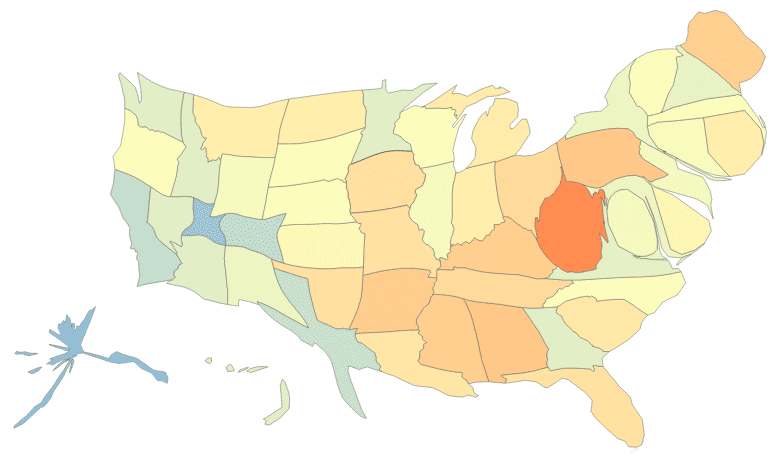
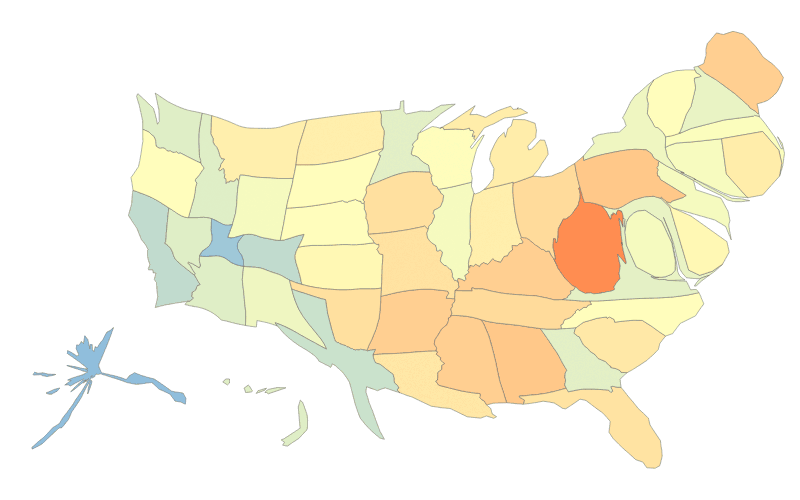
better placeholder, styling

Changed region(s): [[0.1231, 0.0, 0.9846, 0.9739], [0.0308, 0.6391, 0.3692, 0.913], [0.0, 0.913, 0.0308, 0.9435]]

diff --git a/index.html b/index.html
@@ -49,15 +49,16 @@
         height: 500px;
         text-align: center;
         position: relative;
+        margin: 20px 0;
       }
 
       #map {
+        display: block;
         position: absolute;
         background: #fff;
-        display: block;
         width: 100%;
         height: 100%;
-        margin: 20px 0;
+        margin: 0;
       }
 
       path.state {
@@ -81,8 +82,8 @@
         position: absolute;
         z-index: -1;
         display: block;
-        left: 18px;
-        top: 41px;
+        left: 0;
+        top: 0;
       }
 
     </style>
@@ -128,6 +129,10 @@
       <a href="https://github.com/shawnbot/d3-cartogram/"><img style="position: absolute; top: 0; right: 0; border: 0;" src="https://s3.amazonaws.com/github/ribbons/forkme_right_gray_6d6d6d.png" alt="Fork me on GitHub"></a>
     </div>
     <script>
+
+      if (!document.createElementNS) {
+        document.getElementsByTagName("form")[0].style.display = "none";
+      }
 
       // field definitions from:
       // <http://www.census.gov/popest/data/national/totals/2011/files/NST-EST2011-alldata.pdf>
